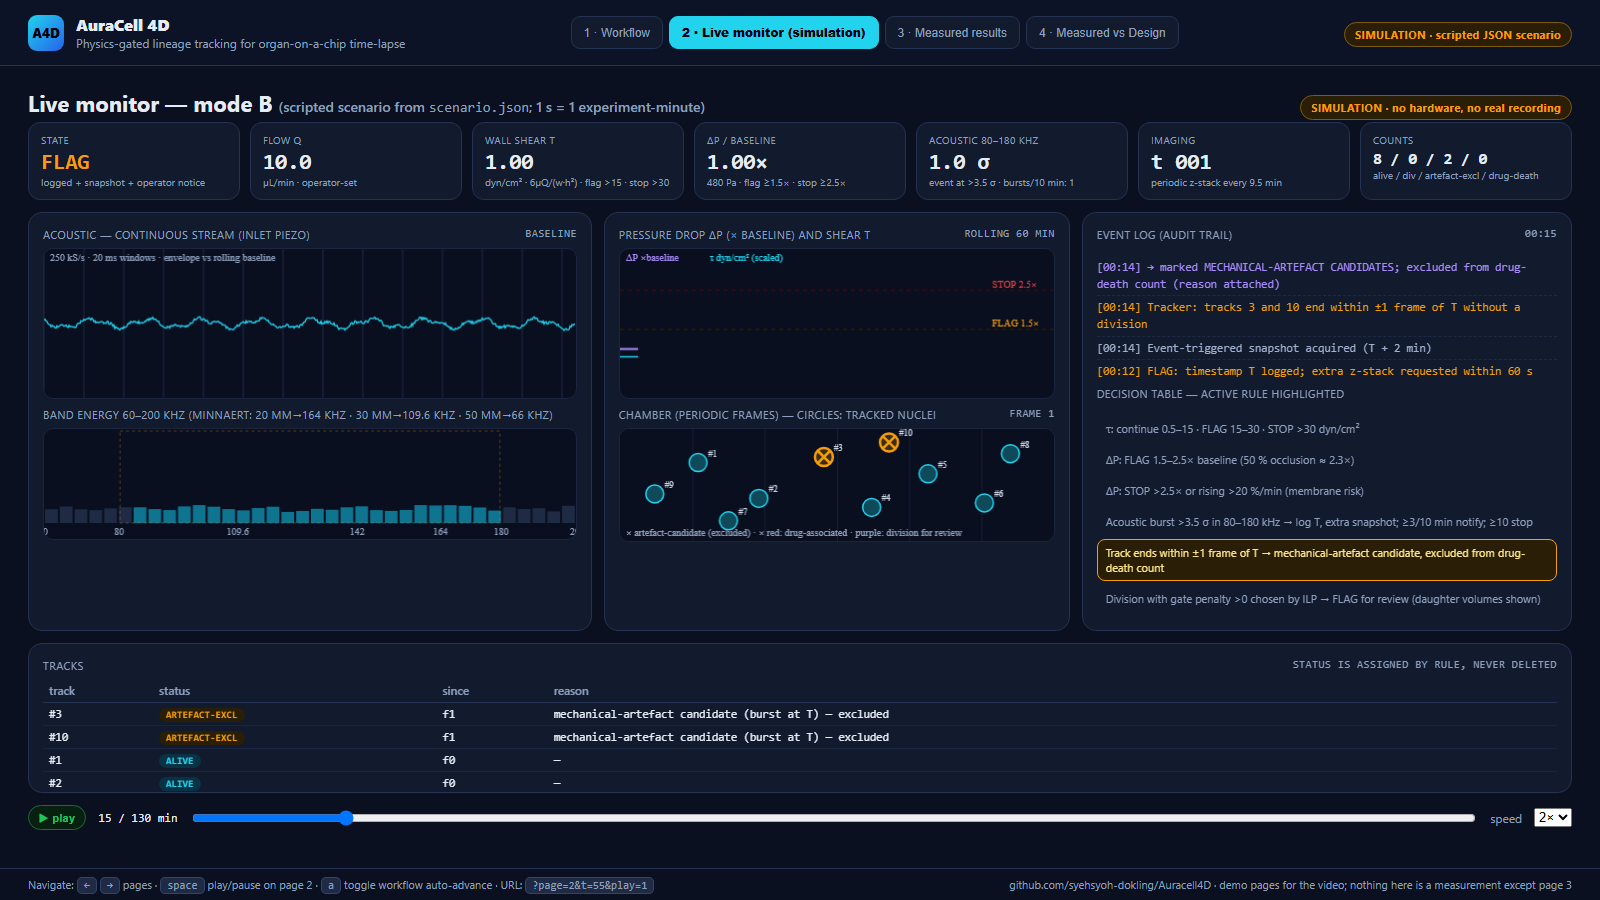
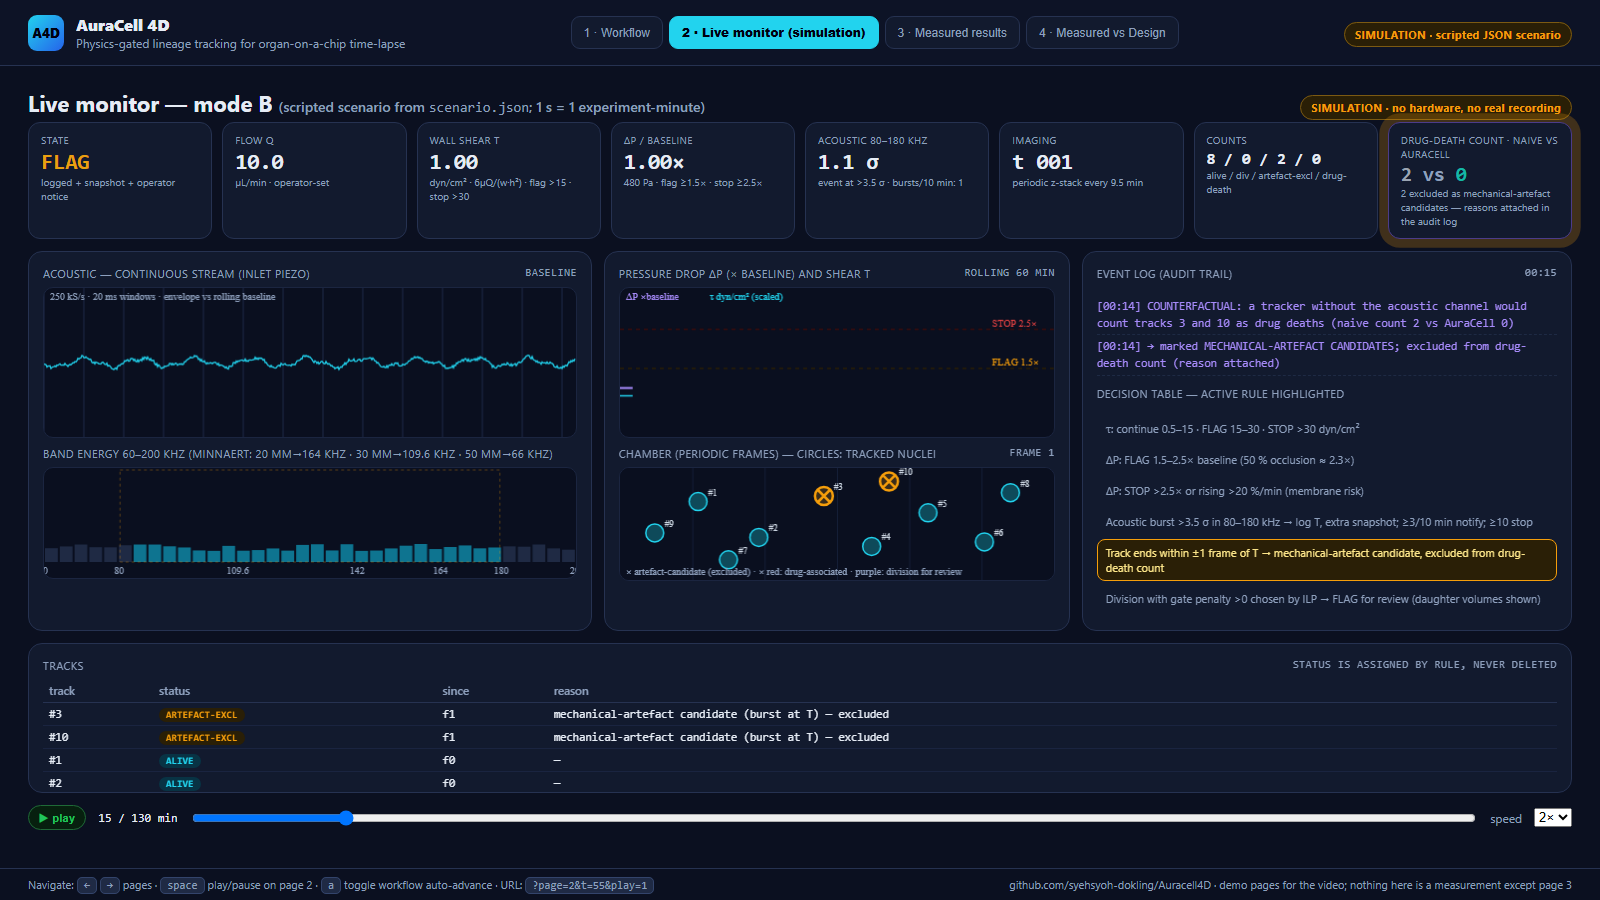
demo: hero incident — counterfactual drug-death counter (naive vs AuraCell), out-of-band pump transient ignored

diff --git a/gui/demo/index.html b/gui/demo/index.html
@@ -36,7 +36,8 @@
 
   /* ---- page 2 monitor ---- */
   .mon{display:grid;grid-template-columns:1.15fr .95fr 1fr;grid-template-rows:auto 1fr auto;gap:12px;height:calc(100% - 50px)}
-  .kpis{grid-column:1/4;display:grid;grid-template-columns:repeat(7,1fr);gap:10px}
+  .kpis{grid-column:1/4;display:grid;grid-template-columns:repeat(8,1fr);gap:10px}
+  .kpi.diverge{border-color:var(--purple);box-shadow:0 0 0 2px rgba(167,139,250,.25),0 10px 30px rgba(167,139,250,.15)}
   .kpi{background:var(--panel);border:1px solid var(--line);border-radius:12px;padding:10px 12px}.kpi .l{font-size:10px;color:var(--mut);text-transform:uppercase;letter-spacing:.4px}.kpi .v{font-family:var(--mono);font-size:22px;font-weight:800;margin-top:2px;transition:color .3s}.kpi .s{font-size:10px;color:var(--mut)}
   .state-CONTINUE{color:var(--green)}.state-FLAG{color:var(--amber)}.state-STOP{color:var(--red)}
   .kpi.pulse{animation:pulse .6s 3}@keyframes pulse{0%{box-shadow:0 0 0 0 rgba(245,158,11,.6)}100%{box-shadow:0 0 0 14px rgba(245,158,11,0)}}
@@ -95,6 +96,7 @@
       <div class="kpi"><div class="l">Acoustic 80–180 kHz</div><div class="v" id="kAc">0.9 σ</div><div class="s" id="kAcS">event at &gt;3.5 σ · bursts/10 min: 0</div></div>
       <div class="kpi"><div class="l">Imaging</div><div class="v" id="kFrame">t 000</div><div class="s" id="kFrameS">periodic z-stack every 9.5 min</div></div>
       <div class="kpi"><div class="l">Counts</div><div class="v" id="kCount" style="font-size:16px">10 / 0 / 0 / 0</div><div class="s">alive / div / artefact-excl / drug-death</div></div>
+      <div class="kpi" id="kCf" style="border-color:#4c3c8a"><div class="l">Drug-death count · naive vs AuraCell</div><div class="v" id="kCfV" style="font-size:20px"><span id="cfNaive" style="color:#9aa4b2">0</span> <span class="mut">vs</span> <span id="cfOurs" style="color:var(--teal)">0</span></div><div class="s" id="kCfS">naive = every track that ended; ours = ended with no mechanical event</div></div>
     </div>
 
     <div class="panel"><div class="ptitle"><span>Acoustic — continuous stream (inlet piezo)</span><span id="acTag" class="mono">baseline</span></div><canvas id="cAc" height="150"></canvas>
@@ -153,7 +155,7 @@
 <footer><span>Navigate: <kbd>←</kbd> <kbd>→</kbd> pages · <kbd>space</kbd> play/pause on page 2 · <kbd>a</kbd> toggle workflow auto-advance · URL: <kbd>?page=2&amp;t=55&amp;play=1</kbd></span><span>github.com/syehsyoh-dokling/Auracell4D · demo pages for the video; nothing here is a measurement except page 3</span></footer>
 </div>
 
-<script id="scenarioInline" type="application/json">{"meta": {"title": "AuraCell 4D \u2014 scripted monitoring scenario (DESIGN MODE B, SIMULATION)", "note": "Every value here is scripted to illustrate the decision table of writeup Section 3.3. No hardware, no real recording.", "cartridge": {"width_um": 1000, "height_um": 100, "length_mm": 25, "viscosity_pa_s": 0.001}, "flow_ul_min": 10.0, "tau_baseline_dyn_cm2": 1.0, "dp_baseline_pa": 480, "imaging_interval_s": 9.5, "note_imaging": "In the demo 1 s of wall-clock = 1 min of experiment; frames every 9.5 s represent the 9.5-min CTC cadence.", "thresholds": {"tau_flag": 15, "tau_stop": 30, "dp_flag_x": 1.5, "dp_stop_x": 2.5, "burst_band_khz": [80, 180], "burst_sigma": 3.5, "bursts_flag_per_10min": 3, "bursts_stop_per_10min": 10}, "duration_s": 130}, "cells": [{"id": 1, "x": 0.18, "y": 0.3}, {"id": 2, "x": 0.32, "y": 0.62}, {"id": 3, "x": 0.47, "y": 0.25}, {"id": 4, "x": 0.58, "y": 0.7}, {"id": 5, "x": 0.71, "y": 0.4}, {"id": 6, "x": 0.84, "y": 0.66}, {"id": 7, "x": 0.25, "y": 0.82}, {"id": 8, "x": 0.9, "y": 0.22}, {"id": 9, "x": 0.08, "y": 0.58}, {"id": 10, "x": 0.62, "y": 0.12}], "events": [{"t": 0, "type": "info", "msg": "Perfusion started: 10 \u00b5L/min \u2192 \u03c4 = 6\u00b5Q/(w\u00b7h\u00b2) = 1.00 dyn/cm\u00b2 (CONTINUE band 0.5\u201315)"}, {"t": 0, "type": "info", "msg": "Acoustic channel: continuous, 250 kS/s, watching 80\u2013180 kHz (Minnaert band). Imaging: periodic z-stack every 9.5 min."}, {"t": 9.5, "type": "frame", "frame": 1}, {"t": 12, "type": "burst", "khz": 109.6, "sigma": 6.2, "radius_um": 30, "msg": "Acoustic burst 109.6 kHz (6.2 \u03c3) \u2192 Minnaert radius \u2248 30 \u00b5m bubble at inlet"}, {"t": 12, "type": "flag", "rule": "burst", "msg": "FLAG: timestamp T logged; extra z-stack requested within 60 s"}, {"t": 14, "type": "snapshot", "msg": "Event-triggered snapshot acquired (T + 2 min)"}, {"t": 14, "type": "vanish", "cells": [3, 10], "msg": "Tracker: tracks 3 and 10 end within \u00b11 frame of T without a division"}, {"t": 14, "type": "artefact", "cells": [3, 10], "msg": "\u2192 marked MECHANICAL-ARTEFACT CANDIDATES; excluded from drug-death count (reason attached)"}, {"t": 19, "type": "frame", "frame": 2}, {"t": 28.5, "type": "frame", "frame": 3}, {"t": 30, "type": "clog", "dp_x": 1.2, "msg": "\u0394P rising: 1.2\u00d7 baseline (watch)"}, {"t": 38, "type": "frame", "frame": 4}, {"t": 40, "type": "clog", "dp_x": 1.7, "msg": "\u0394P 1.7\u00d7 baseline (\u2248 50 % occlusion \u2259 2.3\u00d7)"}, {"t": 40, "type": "flag", "rule": "dp_flag", "msg": "FLAG: pressure drop 1.5\u20132.5\u00d7 baseline \u2192 operator notified, snapshot requested"}, {"t": 47.5, "type": "frame", "frame": 5}, {"t": 52, "type": "clog", "dp_x": 2.6, "msg": "\u0394P 2.6\u00d7 baseline and rising > 20 %/min"}, {"t": 52, "type": "stop", "rule": "dp_stop", "msg": "STOP RECOMMENDED: membrane risk. Software does not control the pump \u2014 operator decides."}, {"t": 58, "type": "operator", "flow_ul_min": 4.0, "msg": "Operator reduced flow to 4 \u00b5L/min \u2192 \u03c4 = 0.40 dyn/cm\u00b2; \u0394P relaxing"}, {"t": 57, "type": "frame", "frame": 6}, {"t": 64, "type": "clog", "dp_x": 1.3, "msg": "\u0394P back to 1.3\u00d7 baseline \u2192 CONTINUE"}, {"t": 64, "type": "resume", "msg": "State: CONTINUE (flag history kept in audit log)"}, {"t": 66.5, "type": "frame", "frame": 7}, {"t": 76, "type": "frame", "frame": 8}, {"t": 78, "type": "divide", "parent": 5, "daughters": [11, 12], "penalty": 0.0, "msg": "ILP: division 5 \u2192 (11, 12), gate penalty 0.00 \u2192 PASS"}, {"t": 85.5, "type": "frame", "frame": 9}, {"t": 88, "type": "divide", "parent": 2, "daughters": [13, 14], "penalty": 0.42, "msg": "ILP: division 2 \u2192 (13, 14) chosen despite gate penalty 0.42 (daughter ratio 1.6) \u2192 FLAG FOR REVIEW"}, {"t": 88, "type": "flag", "rule": "gate", "msg": "FLAG: division shown to researcher with both daughter volumes"}, {"t": 95, "type": "frame", "frame": 10}, {"t": 98, "type": "death", "cells": [7], "msg": "Track 7 ends; no acoustic/pressure event within \u00b11 frame \u2192 counted as drug-associated death"}, {"t": 104.5, "type": "frame", "frame": 11}, {"t": 110, "type": "burst", "khz": 142.0, "sigma": 4.1, "radius_um": 23, "msg": "Acoustic burst 142 kHz (4.1 \u03c3) \u2248 23 \u00b5m bubble"}, {"t": 110, "type": "flag", "rule": "burst", "msg": "FLAG: 2nd burst in 10 min (notice at \u2265 3); snapshot requested"}, {"t": 114, "type": "frame", "frame": 12}, {"t": 114, "type": "info", "msg": "No track ended near this event \u2192 nothing excluded"}, {"t": 122, "type": "export", "msg": "Audit export: 10 tracks, 2 divisions (1 PASS, 1 FLAG), 2 artefact candidates excluded, 1 drug-associated death, 4 FLAG + 1 STOP recommendation"}, {"t": 128, "type": "loop", "msg": "Researcher review \u2192 next dose \u2192 loop back to perfusion"}]}</script>
+<script id="scenarioInline" type="application/json">{"meta": {"title": "AuraCell 4D \u2014 scripted monitoring scenario (DESIGN MODE B, SIMULATION)", "note": "Every value here is scripted to illustrate the decision table of writeup Section 3.3. No hardware, no real recording.", "cartridge": {"width_um": 1000, "height_um": 100, "length_mm": 25, "viscosity_pa_s": 0.001}, "flow_ul_min": 10.0, "tau_baseline_dyn_cm2": 1.0, "dp_baseline_pa": 480, "imaging_interval_s": 9.5, "note_imaging": "In the demo 1 s of wall-clock = 1 min of experiment; frames every 9.5 s represent the 9.5-min CTC cadence.", "thresholds": {"tau_flag": 15, "tau_stop": 30, "dp_flag_x": 1.5, "dp_stop_x": 2.5, "burst_band_khz": [80, 180], "burst_sigma": 3.5, "bursts_flag_per_10min": 3, "bursts_stop_per_10min": 10}, "duration_s": 130}, "cells": [{"id": 1, "x": 0.18, "y": 0.3}, {"id": 2, "x": 0.32, "y": 0.62}, {"id": 3, "x": 0.47, "y": 0.25}, {"id": 4, "x": 0.58, "y": 0.7}, {"id": 5, "x": 0.71, "y": 0.4}, {"id": 6, "x": 0.84, "y": 0.66}, {"id": 7, "x": 0.25, "y": 0.82}, {"id": 8, "x": 0.9, "y": 0.22}, {"id": 9, "x": 0.08, "y": 0.58}, {"id": 10, "x": 0.62, "y": 0.12}], "events": [{"t": 0, "type": "info", "msg": "Perfusion started: 10 \u00b5L/min \u2192 \u03c4 = 6\u00b5Q/(w\u00b7h\u00b2) = 1.00 dyn/cm\u00b2 (CONTINUE band 0.5\u201315)"}, {"t": 0, "type": "info", "msg": "Acoustic channel: continuous, 250 kS/s, watching 80\u2013180 kHz (Minnaert band). Imaging: periodic z-stack every 9.5 min."}, {"t": 9.5, "type": "frame", "frame": 1}, {"t": 12, "type": "burst", "khz": 109.6, "sigma": 6.2, "radius_um": 30, "msg": "Acoustic burst 109.6 kHz (6.2 \u03c3) \u2192 Minnaert radius \u2248 30 \u00b5m bubble at inlet"}, {"t": 12, "type": "flag", "rule": "burst", "msg": "FLAG: timestamp T logged; extra z-stack requested within 60 s"}, {"t": 14, "type": "snapshot", "msg": "Event-triggered snapshot acquired (T + 2 min)"}, {"t": 14, "type": "vanish", "cells": [3, 10], "msg": "Tracker: tracks 3 and 10 end within \u00b11 frame of T without a division"}, {"t": 14, "type": "artefact", "cells": [3, 10], "msg": "\u2192 marked MECHANICAL-ARTEFACT CANDIDATES; excluded from drug-death count (reason attached)"}, {"t": 14, "type": "counter", "msg": "COUNTERFACTUAL: a tracker without the acoustic channel would count tracks 3 and 10 as drug deaths (naive count 2 vs AuraCell 0)"}, {"t": 19, "type": "frame", "frame": 2}, {"t": 24, "type": "noise", "khz": 62.0, "sigma": 4.4, "msg": "Transient at 62 kHz (4.4 \u03c3) \u2014 pump harmonic, OUTSIDE the 80\u2013180 kHz Minnaert band \u2192 logged, no flag, no exclusion"}, {"t": 28.5, "type": "frame", "frame": 3}, {"t": 30, "type": "clog", "dp_x": 1.2, "msg": "\u0394P rising: 1.2\u00d7 baseline (watch)"}, {"t": 38, "type": "frame", "frame": 4}, {"t": 40, "type": "clog", "dp_x": 1.7, "msg": "\u0394P 1.7\u00d7 baseline (\u2248 50 % occlusion \u2259 2.3\u00d7)"}, {"t": 40, "type": "flag", "rule": "dp_flag", "msg": "FLAG: pressure drop 1.5\u20132.5\u00d7 baseline \u2192 operator notified, snapshot requested"}, {"t": 47.5, "type": "frame", "frame": 5}, {"t": 52, "type": "clog", "dp_x": 2.6, "msg": "\u0394P 2.6\u00d7 baseline and rising > 20 %/min"}, {"t": 52, "type": "stop", "rule": "dp_stop", "msg": "STOP RECOMMENDED: membrane risk. Software does not control the pump \u2014 operator decides."}, {"t": 58, "type": "operator", "flow_ul_min": 4.0, "msg": "Operator reduced flow to 4 \u00b5L/min \u2192 \u03c4 = 0.40 dyn/cm\u00b2; \u0394P relaxing"}, {"t": 57, "type": "frame", "frame": 6}, {"t": 64, "type": "clog", "dp_x": 1.3, "msg": "\u0394P back to 1.3\u00d7 baseline \u2192 CONTINUE"}, {"t": 64, "type": "resume", "msg": "State: CONTINUE (flag history kept in audit log)"}, {"t": 66.5, "type": "frame", "frame": 7}, {"t": 76, "type": "frame", "frame": 8}, {"t": 78, "type": "divide", "parent": 5, "daughters": [11, 12], "penalty": 0.0, "msg": "ILP: division 5 \u2192 (11, 12), gate penalty 0.00 \u2192 PASS"}, {"t": 85.5, "type": "frame", "frame": 9}, {"t": 88, "type": "divide", "parent": 2, "daughters": [13, 14], "penalty": 0.42, "msg": "ILP: division 2 \u2192 (13, 14) chosen despite gate penalty 0.42 (daughter ratio 1.6) \u2192 FLAG FOR REVIEW"}, {"t": 88, "type": "flag", "rule": "gate", "msg": "FLAG: division shown to researcher with both daughter volumes"}, {"t": 95, "type": "frame", "frame": 10}, {"t": 98, "type": "death", "cells": [7], "msg": "Track 7 ends; no acoustic/pressure event within \u00b11 frame \u2192 counted as drug-associated death"}, {"t": 98, "type": "counter", "msg": "COUNTERFACTUAL: naive drug-death count would now read 3; AuraCell reads 1 (+2 excluded with reasons attached)"}, {"t": 104.5, "type": "frame", "frame": 11}, {"t": 110, "type": "burst", "khz": 142.0, "sigma": 4.1, "radius_um": 23, "msg": "Acoustic burst 142 kHz (4.1 \u03c3) \u2248 23 \u00b5m bubble"}, {"t": 110, "type": "flag", "rule": "burst", "msg": "FLAG: 2nd burst in 10 min (notice at \u2265 3); snapshot requested"}, {"t": 114, "type": "frame", "frame": 12}, {"t": 114, "type": "info", "msg": "No track ended near this event \u2192 nothing excluded"}, {"t": 122, "type": "export", "msg": "Audit export: 10 tracks, 2 divisions (1 PASS, 1 FLAG), 2 artefact candidates excluded, 1 drug-associated death (naive count would be 3), 1 out-of-band transient ignored, 4 FLAG + 1 STOP recommendation"}, {"t": 128, "type": "loop", "msg": "Researcher review \u2192 next dose \u2192 loop back to perfusion"}]}</script>
 <script>
 // ---------------------------------------------------------------- navigation
 const badges={1:'<span class="badge b-des">DESIGN · animated explainer</span>',2:'<span class="badge b-sim">SIMULATION · scripted JSON scenario</span>',3:'<span class="badge b-meas">[MEASURED] · official CTC metrics</span>',4:'<span class="badge b-des">closing</span>'};
@@ -192,7 +194,7 @@ setStep(0);setInterval(()=>{if(page===1&&flowAuto)setStep((stepI+1)%STEPS.length
 let S=null;
 async function loadScenario(){try{const r=await fetch('scenario.json');if(r.ok){S=await r.json();return;}}catch(e){}const t=document.getElementById('scenarioInline').textContent;S=JSON.parse(t);}
 const $=id=>document.getElementById(id);
-let tNow=0,playing=false,lastTs=0,fired=new Set(),bursts=[],state='CONTINUE',dpx=1.0,q=10,tau=1.0,frame=0,tracks={},logLines=[],acHist=[],dpHist=[],tauHist=[],burstNow=0,activeRule=null,ruleUntil=0;
+let tNow=0,playing=false,lastTs=0,fired=new Set(),bursts=[],state='CONTINUE',dpx=1.0,q=10,tau=1.0,frame=0,tracks={},logLines=[],acHist=[],dpHist=[],tauHist=[],burstNow=0,activeRule=null,ruleUntil=0,noiseKhz=null;
 const CELLPOS={};
 function tauOf(qv){const m=S.meta.cartridge;const Q=qv*1e-9/60,w=m.width_um*1e-6,h=m.height_um*1e-6;return 6*m.viscosity_pa_s*Q/(w*h*h)*10;}
 function reset(){tNow=0;fired=new Set();bursts=[];state='CONTINUE';dpx=1;q=S.meta.flow_ul_min;tau=tauOf(q);frame=0;tracks={};logLines=[];acHist=[];dpHist=[];tauHist=[];burstNow=0;activeRule=null;S.cells.forEach(c=>{tracks[c.id]={status:'alive',since:0,reason:'—'};CELLPOS[c.id]={x:c.x,y:c.y};});$('log').innerHTML='';render();}
@@ -203,7 +205,7 @@ function fire(ev,i){
   switch(ev.type){
     case 'info':log('in',ev.msg);break;
     case 'frame':frame=ev.frame;log('in',`z-stack frame ${frame} acquired (periodic, 9.5 min cadence)`);break;
-    case 'burst':burstNow=ev.sigma;bursts.push(tNow);log('fl',ev.msg);setRule('burst');pulse('kAc');break;
+    case 'burst':burstNow=ev.sigma;noiseKhz=null;bursts.push(tNow);log('fl',ev.msg);setRule('burst');pulse('kAc');break;
     case 'flag':state=state==='STOP'?'STOP':'FLAG';log('fl',ev.msg);if(ev.rule)setRule(ev.rule);pulse('kState');break;
     case 'snapshot':log('in',ev.msg);break;
     case 'vanish':ev.cells.forEach(c=>{if(tracks[c]){tracks[c].status='ended';tracks[c].since=frame;tracks[c].reason='ended within ±1 frame of T';}});log('fl',ev.msg);setRule('vanish');break;
@@ -215,6 +217,8 @@ function fire(ev,i){
     case 'divide':tracks[ev.parent].status='divided';tracks[ev.parent].since=frame;tracks[ev.parent].reason=`→ ${ev.daughters.join(', ')} · penalty ${ev.penalty.toFixed(2)}`;const p=CELLPOS[ev.parent];ev.daughters.forEach((d,k)=>{tracks[d]={status:ev.penalty>0?'review':'alive',since:frame,reason:ev.penalty>0?`division flagged for review (penalty ${ev.penalty})`:'daughter, PASS'};CELLPOS[d]={x:p.x+(k?0.05:-0.05),y:p.y+(k?0.08:-0.08)};});log(ev.penalty>0?'fl':'ok',ev.msg);if(ev.penalty>0)setRule('gate');break;
     case 'death':ev.cells.forEach(c=>{tracks[c].status='dead';tracks[c].since=frame;tracks[c].reason='no mechanical event within ±1 frame → drug-associated';});log('in',ev.msg);pulse('kCount');break;
     case 'export':log('ok',ev.msg);break;
+    case 'counter':log('ar',ev.msg);pulse('kCf');break;
+    case 'noise':burstNow=ev.sigma;noiseKhz=ev.khz;log('in',ev.msg);break;
     case 'loop':log('in',ev.msg);break;
   }
 }
@@ -226,8 +230,9 @@ function render(){
   $('kDp').textContent=dpx.toFixed(2)+'×';$('kDp').style.color=dpx>=2.5?'var(--red)':dpx>=1.5?'var(--amber)':'';$('kDpS').textContent=`${Math.round(S.meta.dp_baseline_pa*dpx)} Pa · flag ≥1.5× · stop ≥2.5×`;
   const sig=(0.6+Math.random()*0.6+burstNow);$('kAc').textContent=sig.toFixed(1)+' σ';$('kAc').style.color=sig>3.5?'var(--amber)':'';const b10=bursts.filter(b=>tNow-b<=10).length;$('kAcS').textContent=`event at >3.5 σ · bursts/10 min: ${b10}`;
   $('kFrame').textContent='t '+String(frame).padStart(3,'0');$('frameTag').textContent='frame '+frame;$('kCount').textContent=`${counts.alive} / ${counts.div} / ${counts.art} / ${counts.dead}`;
+  const naive=counts.art+counts.dead;$('cfNaive').textContent=naive;$('cfOurs').textContent=counts.dead;$('kCf').classList.toggle('diverge',naive!==counts.dead);$('kCfS').textContent=naive!==counts.dead?`${naive-counts.dead} excluded as mechanical-artefact candidates — reasons attached in the audit log`:'naive = every track that ended; ours = ended with no mechanical event';
   const m=Math.floor(tNow);$('clock').textContent=`${String(Math.floor(m/60)).padStart(2,'0')}:${String(m%60).padStart(2,'0')}`;$('tl').textContent=`${tNow.toFixed(0)} / ${S.meta.duration_s} min`;$('scrub').value=tNow;$('play').textContent=playing?'❚❚ pause':'▶ play';
-  $('acTag').textContent=burstNow>1?`BURST ${(burstNow).toFixed(1)} σ`:'baseline';
+  $('acTag').textContent=burstNow>1?(noiseKhz!==null?`transient ${noiseKhz} kHz — outside band, ignored`:`BURST ${(burstNow).toFixed(1)} σ in band`):'baseline';
   if(tNow-ruleUntil>0&&activeRule&&state==='CONTINUE'){activeRule=null;document.querySelectorAll('#rules div').forEach(d=>d.classList.remove('hot','stop'));}
   // tracks table
   const order={review:0,artefact:1,dead:2,divided:3,alive:4,ended:5};
@@ -236,7 +241,7 @@ function render(){
 }
 function fit(c){const r=c.getBoundingClientRect();if(c.width!==Math.round(r.width*devicePixelRatio)){c.width=Math.round(r.width*devicePixelRatio);c.height=Math.round(c.getAttribute('height')*devicePixelRatio);}const g=c.getContext('2d');g.setTransform(devicePixelRatio,0,0,devicePixelRatio,0,0);return [g,r.width,+c.getAttribute('height')];}
 function drawAc(){const c=$('cAc');const [g,W,H]=fit(c);g.clearRect(0,0,W,H);g.strokeStyle='#1b2540';for(let x=0;x<W;x+=40){g.beginPath();g.moveTo(x,0);g.lineTo(x,H);g.stroke();}g.strokeStyle='#22d3ee';g.lineWidth=1.3;g.beginPath();const ph=performance.now()/1000;for(let x=0;x<W;x++){const u=x/W;let y=Math.sin(u*60+ph*8)*4+Math.sin(u*150+ph*12)*2+(Math.random()-.5)*3;if(burstNow>1){const env=Math.exp(-Math.pow((u-0.62)*9,2));y+=Math.sin(u*900+ph*40)*burstNow*7*env;}g.lineTo(x,H/2+y);}g.stroke();g.fillStyle='#8ea0bd';g.font='10px ui-monospace';g.fillText('250 kS/s · 20 ms windows · envelope vs rolling baseline',6,12);}
-function drawBand(){const c=$('cBand');const [g,W,H]=fit(c);g.clearRect(0,0,W,H);const n=36;for(let i=0;i<n;i++){const f=60+i*(140/n);let v=0.12+Math.random()*0.08;if(burstNow>1){const cf=S.events.filter(e=>e.type==='burst'&&fired.has(S.events.indexOf(e))).slice(-1)[0];const ck=cf?cf.khz:110;v+=Math.exp(-Math.pow((f-ck)/9,2))*Math.min(1,burstNow/6);}const x=i*(W/n),h=v*(H-18);g.fillStyle=(f>=80&&f<=180)?(v>0.4?'#f59e0b':'#0e7490'):'#1f2a44';g.fillRect(x+1,H-16-h,W/n-2,h);}g.fillStyle='#8ea0bd';g.font='10px ui-monospace';[60,80,109.6,142,164,180,200].forEach(f=>{const x=(f-60)/140*W;g.fillText(f,x-6,H-4);});g.strokeStyle='#f59e0b55';g.setLineDash([3,3]);g.strokeRect((80-60)/140*W,2,(100)/140*W,H-18);g.setLineDash([]);}
+function drawBand(){const c=$('cBand');const [g,W,H]=fit(c);g.clearRect(0,0,W,H);const n=36;for(let i=0;i<n;i++){const f=60+i*(140/n);let v=0.12+Math.random()*0.08;if(burstNow>1){const cf=S.events.filter(e=>e.type==='burst'&&fired.has(S.events.indexOf(e))).slice(-1)[0];const ck=noiseKhz!==null?noiseKhz:(cf?cf.khz:110);v+=Math.exp(-Math.pow((f-ck)/9,2))*Math.min(1,burstNow/6);}const x=i*(W/n),h=v*(H-18);g.fillStyle=(f>=80&&f<=180)?(v>0.4?'#f59e0b':'#0e7490'):'#1f2a44';g.fillRect(x+1,H-16-h,W/n-2,h);}g.fillStyle='#8ea0bd';g.font='10px ui-monospace';[60,80,109.6,142,164,180,200].forEach(f=>{const x=(f-60)/140*W;g.fillText(f,x-6,H-4);});g.strokeStyle='#f59e0b55';g.setLineDash([3,3]);g.strokeRect((80-60)/140*W,2,(100)/140*W,H-18);g.setLineDash([]);}
 function drawDp(){const c=$('cDp');const [g,W,H]=fit(c);g.clearRect(0,0,W,H);dpHist.push(dpx);tauHist.push(tau);if(dpHist.length>240){dpHist.shift();tauHist.shift();}const yOf=v=>H-10-(v/3.2)*(H-24);g.strokeStyle='#3a0d0d';g.setLineDash([4,4]);g.beginPath();g.moveTo(0,yOf(2.5));g.lineTo(W,yOf(2.5));g.stroke();g.strokeStyle='#2a1f06';g.beginPath();g.moveTo(0,yOf(1.5));g.lineTo(W,yOf(1.5));g.stroke();g.setLineDash([]);g.fillStyle='#ef4444';g.font='10px ui-monospace';g.fillText('STOP 2.5×',W-62,yOf(2.5)-3);g.fillStyle='#f59e0b';g.fillText('FLAG 1.5×',W-62,yOf(1.5)-3);
  g.strokeStyle='#a78bfa';g.lineWidth=2;g.beginPath();dpHist.forEach((v,i)=>{const x=i/240*W;i?g.lineTo(x,yOf(v)):g.moveTo(x,yOf(v));});g.stroke();g.strokeStyle='#22d3ee';g.lineWidth=1.5;g.beginPath();tauHist.forEach((v,i)=>{const x=i/240*W;const y=H-10-(v/2)*(H-24)*0.5;i?g.lineTo(x,y):g.moveTo(x,y);});g.stroke();g.fillStyle='#a78bfa';g.fillText('ΔP ×baseline',6,12);g.fillStyle='#22d3ee';g.fillText('τ dyn/cm² (scaled)',90,12);}
 function drawCells(){const c=$('cCells');const [g,W,H]=fit(c);g.clearRect(0,0,W,H);g.fillStyle='#0a0f1f';g.fillRect(0,0,W,H);for(let i=1;i<6;i++){g.fillStyle='#16203a';g.fillRect(i*W/6,0,1,H);}Object.entries(tracks).forEach(([id,t])=>{const p=CELLPOS[id];if(!p)return;const col={alive:'#22d3ee',review:'#a78bfa',artefact:'#f59e0b',dead:'#ef4444',divided:'#334155',ended:'#f59e0b'}[t.status];const x=p.x*W,y=p.y*H;g.beginPath();g.arc(x,y,t.status==='divided'?5:9,0,Math.PI*2);g.strokeStyle=col;g.lineWidth=t.status==='alive'?1.5:2.5;g.fillStyle=t.status==='alive'?'#0e4a5a':t.status==='divided'?'#111827':col+'33';g.fill();g.stroke();if(t.status==='artefact'||t.status==='dead'){g.beginPath();g.moveTo(x-6,y-6);g.lineTo(x+6,y+6);g.moveTo(x+6,y-6);g.lineTo(x-6,y+6);g.stroke();}g.fillStyle='#cbd5e1';g.font='9px ui-monospace';g.fillText('#'+id,x+10,y-6);});g.fillStyle='#8ea0bd';g.font='10px ui-monospace';g.fillText('× artefact-candidate (excluded) · × red: drug-associated · purple: division for review',6,H-5);}
